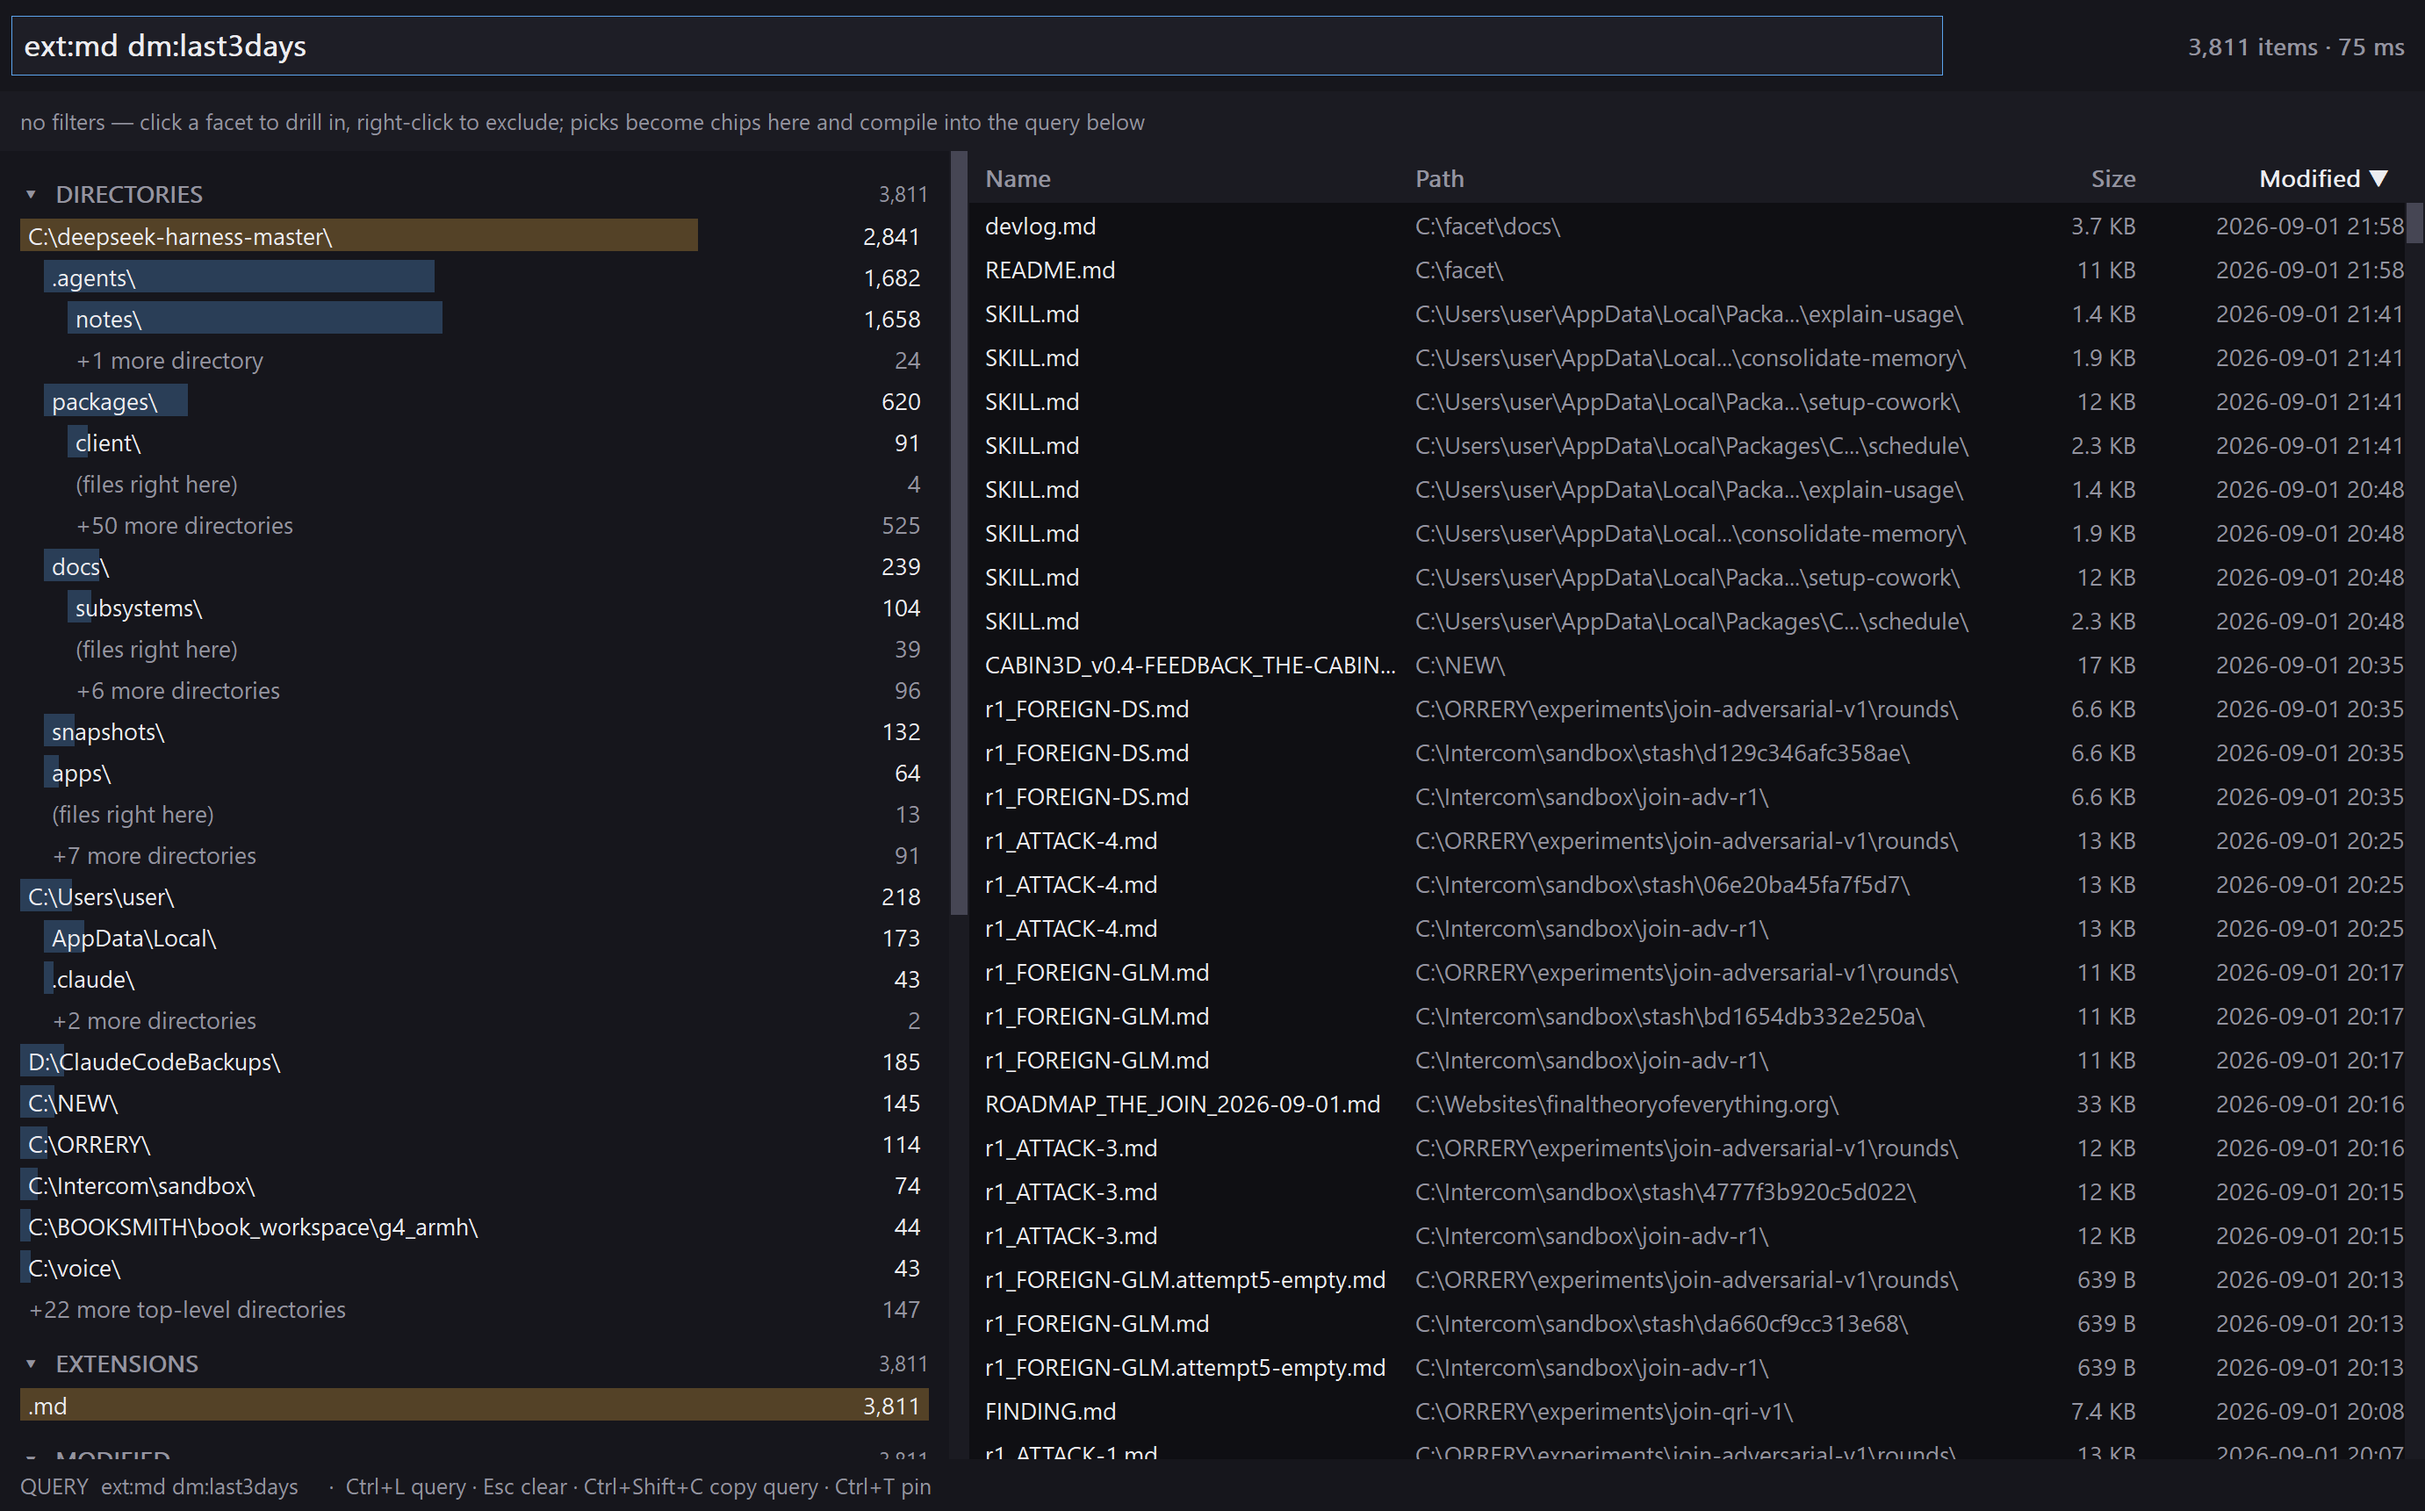
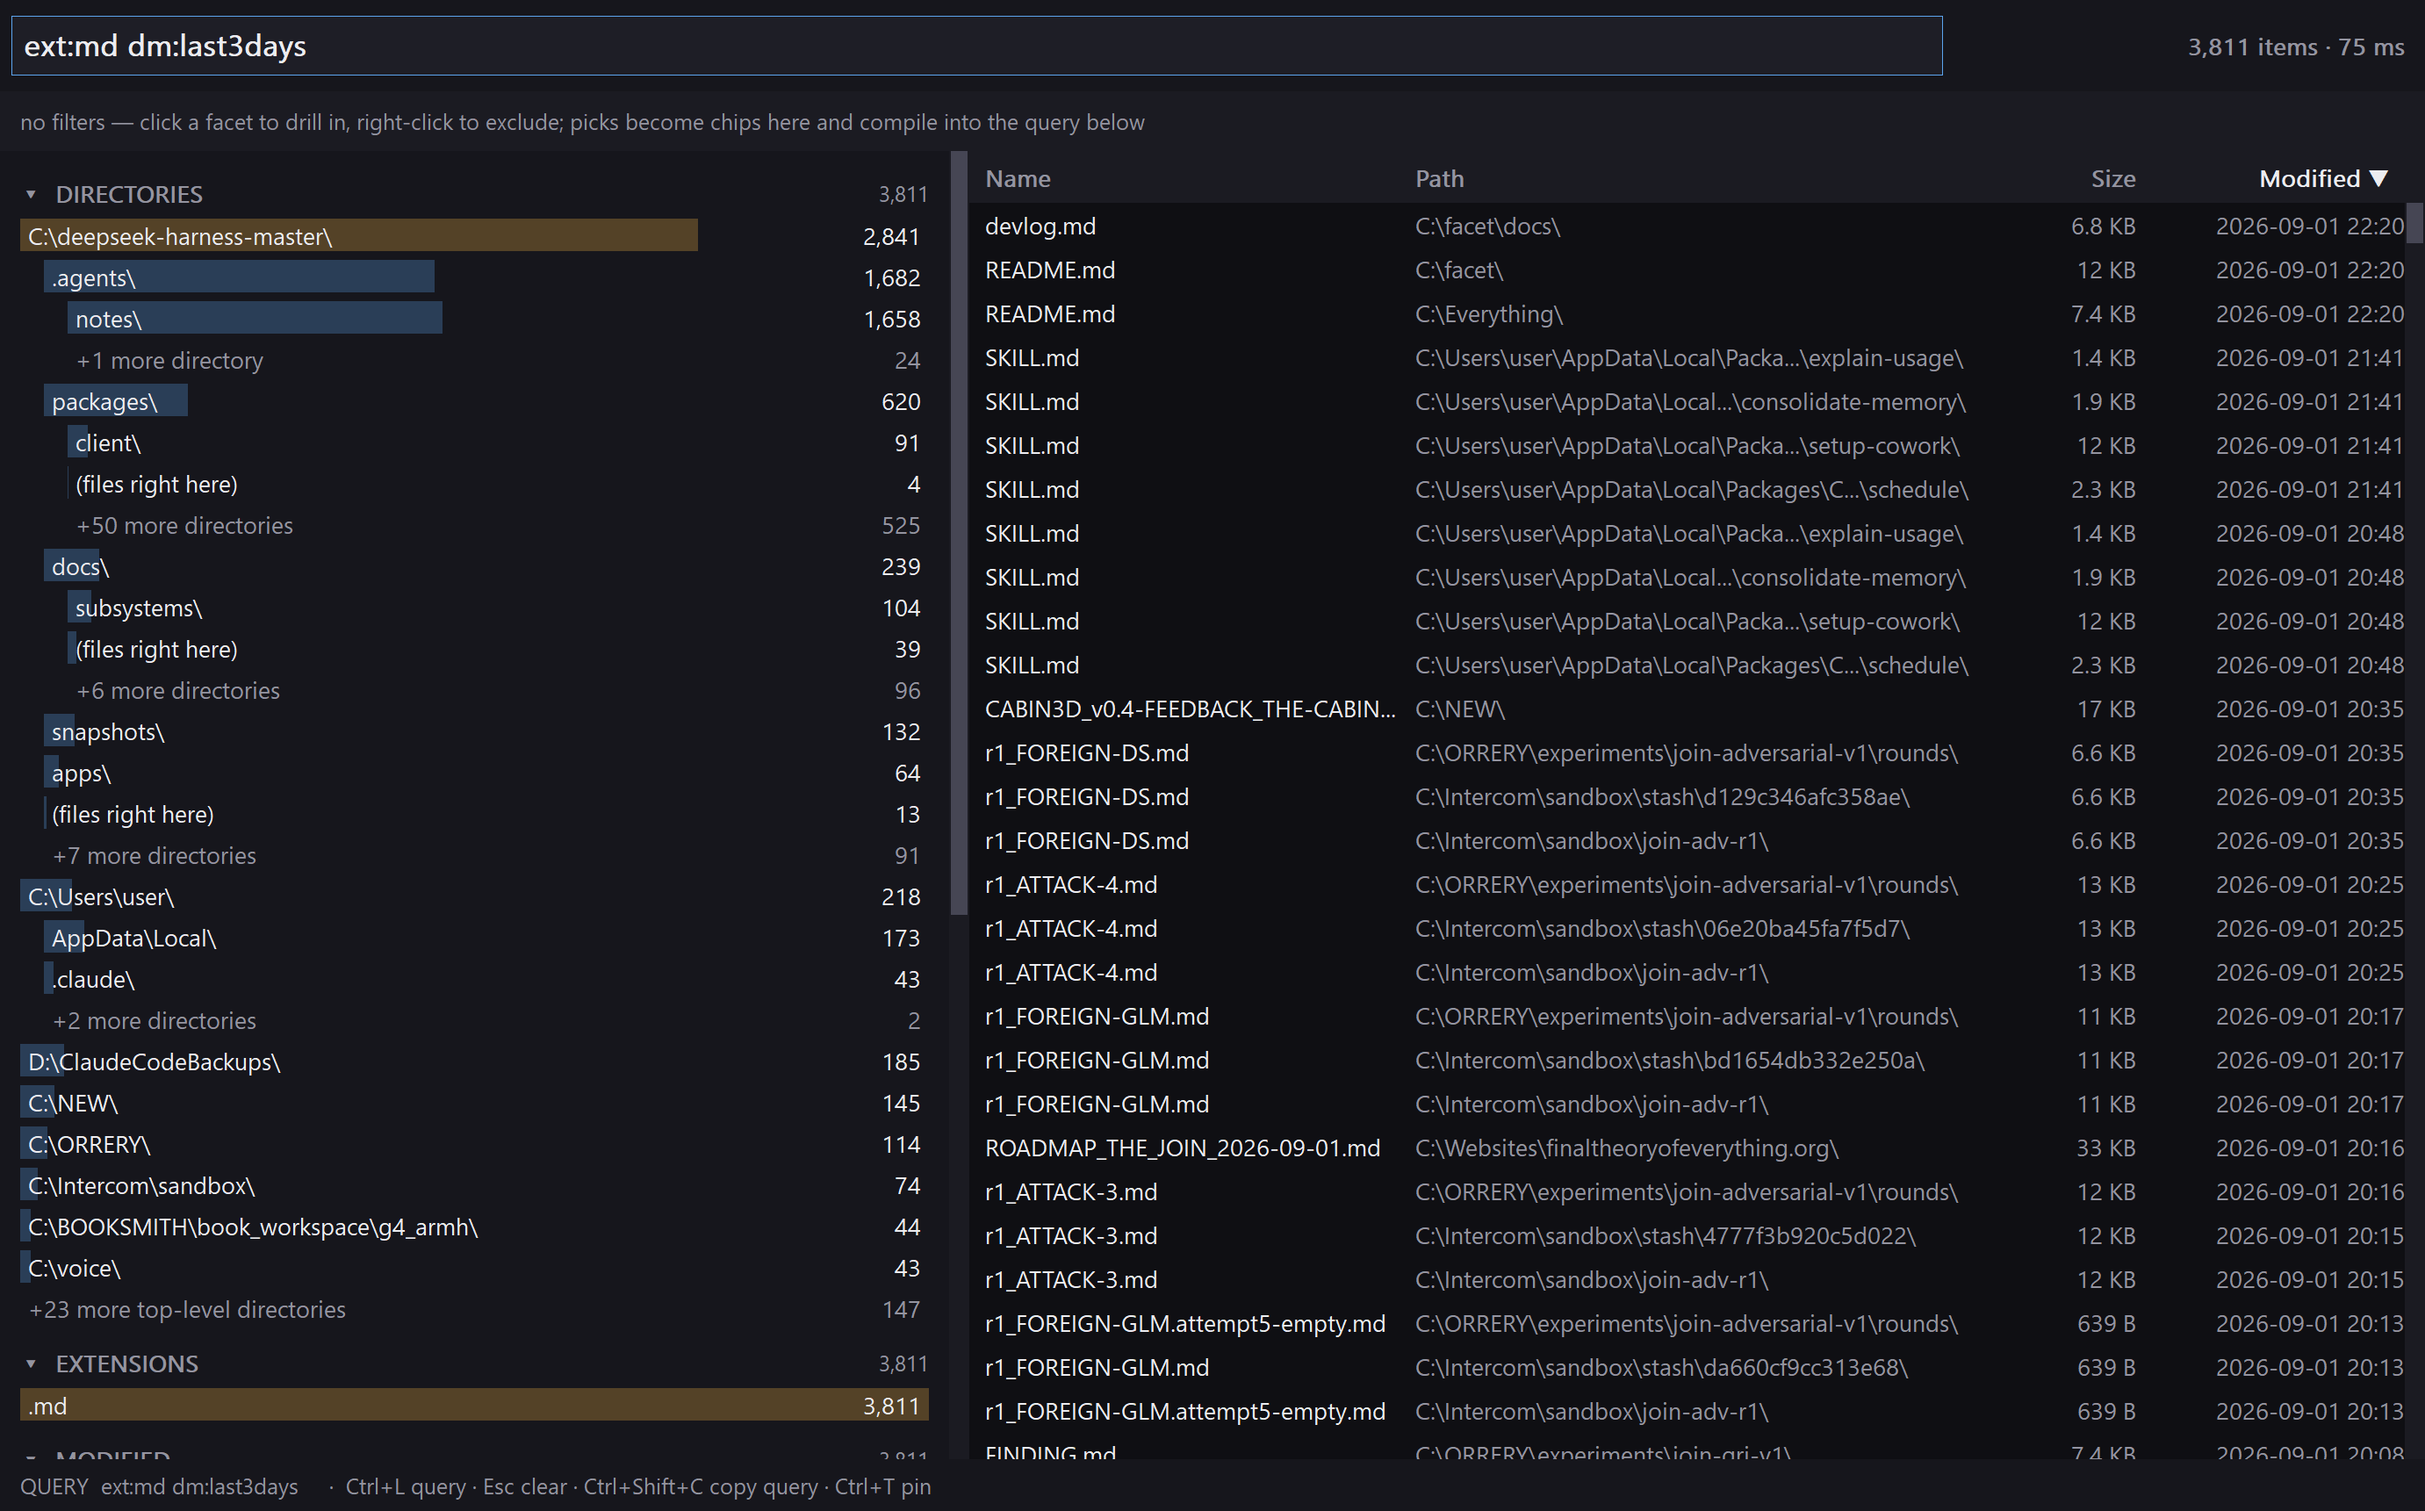
facet 0.1.0 — window polish: live tally, files-right-here rows via parent:, typing goes to the box

diff --git a/facet_gui.cpp b/facet_gui.cpp
@@ -120,6 +120,7 @@ struct Gui {
     bool quit = false;
     HANDLE thread = nullptr;
     std::atomic<uint32_t> gen{ 0 };
+    std::atomic<uint64_t> progress_items{ 0 }, progress_total{ 0 };   // the pass in flight, for the tally
     // state
     std::wstring query;
     std::vector<Chip> chips;
@@ -146,7 +147,7 @@ struct Gui {
 Gui* g = nullptr;
 
 constexpr UINT WM_APP_RESULT = WM_APP + 1;
-constexpr UINT_PTR kDebounceTimer = 1, kShotTimer = 2;
+constexpr UINT_PTR kDebounceTimer = 1, kShotTimer = 2, kProgressTimer = 3;
 constexpr int kEditId = 100;
 constexpr uint32_t kRowsCap = 200000;
 enum { kMenuOpen = 1, kMenuOpenFolder, kMenuCopyPath, kMenuCopyName, kMenuDrill, kMenuExclude };
@@ -314,10 +315,14 @@ DWORD WINAPI worker(LPVOID) {
         const double t0 = now_ms();
         bool stale = false;
         const uint32_t req = ipc::kReqName | ipc::kReqPath | ipc::kReqSize | ipc::kReqModified;
-        const bool ok = es.query(r.compiled, ipc_sort(r.sort, r.ascending), 0, 0, s.opts.page, req,
+        s.progress_items = 0;
+        s.progress_total = 0;
+        const bool ok = es.query(r.compiled, ipc_sort(r.sort, r.ascending), 0, s.opts.max_rows, s.opts.page, req,
                                  [&](const EsPage& pg, const EsItem* it, uint32_t n) {
                                      res->total = pg.total;
                                      for (uint32_t i = 0; i < n; ++i) res->f->add(it[i]);
+                                     s.progress_items = res->f->items;
+                                     s.progress_total = pg.total;
                                      if (s.gen.load() != r.gen) { stale = true; return false; }
                                      return true;
                                  }, &res->err);
@@ -351,6 +356,7 @@ void submit(Gui& s) {
     ReleaseSRWLockExclusive(&s.lock);
     WakeConditionVariable(&s.cv);
     s.busy = true;
+    SetTimer(s.hwnd, kProgressTimer, 200, nullptr);   // repaint the tally while the pass runs
     InvalidateRect(s.hwnd, nullptr, FALSE);
 }
 
@@ -413,7 +419,15 @@ void build_rail(Gui& s) {
         r.label = widen(dl.label);
         r.right = widen(fmt_count(dl.count));
         r.frac = f.items ? (double)dl.count / (double)f.items : 0.0;
-        if (!dl.note && dl.node) {
+        if (dl.here && dl.node) {
+            const std::wstring p = f.dir_path(dl.node);   // the files directly inside: Everything's parent: function
+            r.kind = RowKind::Dir;
+            r.actionable = true;
+            r.inc = { Filter::Kind::Term, L"parent:\"" + p + L"\"" };
+            r.exc = { Filter::Kind::Term, L"!parent:\"" + p + L"\"" };
+            r.group = "dir";
+            r.hint = L"click: only the files directly in " + p + L"   ·   right-click: exclude them";
+        } else if (!dl.note && dl.node) {
             const std::wstring p = f.dir_path(dl.node);
             r.actionable = true;
             r.inc = { Filter::Kind::DirIn, p };
@@ -587,8 +601,10 @@ void paint(Gui& s, HDC dc, RECT client) {
     }
     {
         std::wstring tally;
-        if (s.busy) tally = L"searching…";
-        else if (s.res && !s.res->err.empty()) tally = L"! " + widen(s.res->err);
+        if (s.busy) {
+            const uint64_t done = s.progress_items.load(), tot = s.progress_total.load();
+            tally = tot ? L"searching…  " + widen(fmt_count(done)) + L" of " + widen(fmt_count(tot)) : L"searching…";
+        } else if (s.res && !s.res->err.empty()) tally = L"! " + widen(s.res->err);
         else if (f) tally = widen(fmt_count(s.res->total)) + L" items · " + widen(ssprintf("%.0f ms", s.res->ms));
         RECT tr = rect(s.rcTop.right - px(s, 250), s.rcTop.top, s.rcTop.right - m, s.rcTop.bottom);
         draw_text(dc, s.fBold, (s.res && !s.res->err.empty()) ? kRed : kDim, tr, tally, DT_RIGHT | DT_VCENTER | DT_END_ELLIPSIS);
@@ -925,6 +941,17 @@ LRESULT CALLBACK wndproc(HWND h, UINT m, WPARAM wp, LPARAM lp) {
                 const bool ok = save_shot(h, widen(s.opts.shot));
                 fprintf(stderr, "facet: %s %s\n", ok ? "saved" : "could not save", s.opts.shot.c_str());
                 DestroyWindow(h);
+            } else if (wp == kProgressTimer) {
+                if (!s.busy) KillTimer(h, kProgressTimer);
+                else InvalidateRect(h, &s.rcTop, FALSE);
+            }
+            return 0;
+        case WM_CHAR:
+            // typing while the table has focus goes to the query box
+            if (wp >= 0x20 && wp != 0x7F && GetFocus() == h) {
+                SetFocus(s.edit);
+                SendMessageW(s.edit, EM_SETSEL, (WPARAM)-1, -1);
+                SendMessageW(s.edit, WM_CHAR, wp, lp);
             }
             return 0;
         case WM_APP_RESULT:

diff --git a/facets.cpp b/facets.cpp
@@ -292,7 +292,10 @@ static void expand_dir(const Facets& f, const Opts& o, uint32_t node, int level,
         out.push_back({ level, narrow(label), f.nodes[cur].count, f.nodes[cur].bytes, true, false, cur });
         if (f.nodes[cur].count * 20 >= f.items) expand_dir(f, o, cur, level + 1, thr, out);   // open only what holds >= 5 %
     }
-    if (n.self > 0 && shown > 0) out.push_back({ level, "(files right here)", n.self, 0, false, true, node });
+    if (n.self > 0 && shown > 0) {
+        out.push_back({ level, "(files right here)", n.self, 0, false, true, node });
+        out.back().here = true;
+    }
     if (rest_n) out.push_back({ level, ssprintf("+%d more %s", rest_n, rest_n == 1 ? "directory" : "directories"), rest, 0, false, true, 0 });
 }
 
@@ -314,6 +317,7 @@ std::vector<DirLine> dir_lines(const Facets& f, const Opts& o) {
         shown++;
         if (t.root_files) {
             out.push_back({ 0, narrow(f.dir_path(t.node)) + "  (files at the root)", t.count, 0, false, false, t.node });
+            out.back().here = true;
             continue;
         }
         uint32_t cur = t.node;
@@ -330,7 +334,10 @@ std::vector<DirLine> flat_lines(const Facets& f, const Opts& o) {
     for (uint32_t id = 1; id < (uint32_t)f.nodes.size(); ++id) {
         const DirNode& n = f.nodes[id];
         if (n.depth == (uint32_t)o.flat) all.push_back({ 0, narrow(f.dir_path(id)), n.count, n.bytes, true, false, id });
-        else if (n.depth < (uint32_t)o.flat && n.self > 0) all.push_back({ 0, narrow(f.dir_path(id)) + "  (files right here)", n.self, 0, false, false, id });
+        else if (n.depth < (uint32_t)o.flat && n.self > 0) {
+            all.push_back({ 0, narrow(f.dir_path(id)) + "  (files right here)", n.self, 0, false, false, id });
+            all.back().here = true;
+        }
     }
     std::sort(all.begin(), all.end(), [](const DirLine& a, const DirLine& b) { return a.count > b.count; });
     const uint64_t thr = fold_threshold(o, f.items);

diff --git a/facets.h b/facets.h
@@ -117,6 +117,7 @@ struct DirLine {
     bool has_bytes = true;
     bool note = false;          // a fold / files-here line
     uint32_t node = 0;          // 0 = none
+    bool here = false;          // the files directly inside node (selectable with parent:"DIR\")
 };
 // rows below this are folded into "+N more": --min verbatim, else 1 % of the result set
 uint64_t fold_threshold(const Opts& o, uint64_t items);

diff --git a/README.md b/README.md
@@ -92,7 +92,8 @@ QUERY  ext:md dm:last3days
 - **Query box** — Everything syntax, verbatim; the search re-runs as you type (260 ms after the
   last key), Enter runs it now.
 - **Facet rail** — the report's sections, live. Left-click a directory, extension, bucket or
-  burst to keep only it; right-click to exclude it. Each pick becomes a **chip**; the chips
+  burst to keep only it; right-click to exclude it (*(files right here)* rows select the files
+  directly inside a folder, through Everything's `parent:`). Each pick becomes a **chip**; the chips
   compile into the query in the status line and the whole thing is re-run through Everything,
   so every count is Everything's. `×` removes a chip, Esc clears them all. Right-click a `not …`
   chip to pin it as a standing exclude: it is kept in `facet.ini` next to the exe and applied on
@@ -105,9 +106,10 @@ QUERY  ext:md dm:last3days
 - `--shot FILE.png` renders the window once, saves it and exits — the screenshot above was
   taken that way, no hands.
 
-Everything streams on a worker thread with its own IPC window; a new keystroke cancels the pass
-in flight at its next page. Up to 200,000 rows are kept for the table; the facets always cover
-the whole result set.
+Everything streams on a worker thread with its own IPC window; the tally counts up while a long
+pass runs (the whole disk takes ~10 s), and a new keystroke cancels the pass in flight at its
+next page. Up to 200,000 rows are kept for the table; the facets always cover the whole result
+set unless the window was started with `-n`.
 
 ## The numbers, honestly
 

diff --git a/docs/devlog.md b/docs/devlog.md
@@ -80,3 +80,10 @@ Running notes, newest at the bottom. Decisions, measurements, test results.
     it 2.6× LARGER (ClearType noise compresses badly) — keep the native capture (~300 KB).
 - Rail defaults in the window: top 8, depth 2, and a subtree only opens when it holds >= 5 % of
   the result set (also applied to the report), so the other facets stay reachable.
+- Everything 1.4 `parent:"C:\NEW\"` selects the files directly inside a folder (4 of the 145 in
+  the subtree here) and negates cleanly (`!parent:` = 3,806); `infolder:` and `nosubfolders:`
+  give the same count. The window's "(files right here)" rows compile to it.
+- Window tally shows "searching… N of T" from a per-page atomic while a pass runs; typing while
+  the table has focus is forwarded to the query box; `-n` caps the window's pass like the CLI.
+- C:\Everything\README.md (the AI-session locator doc) now points at facet for the "where did
+  the matches go" question, so future sessions find it without being told.
